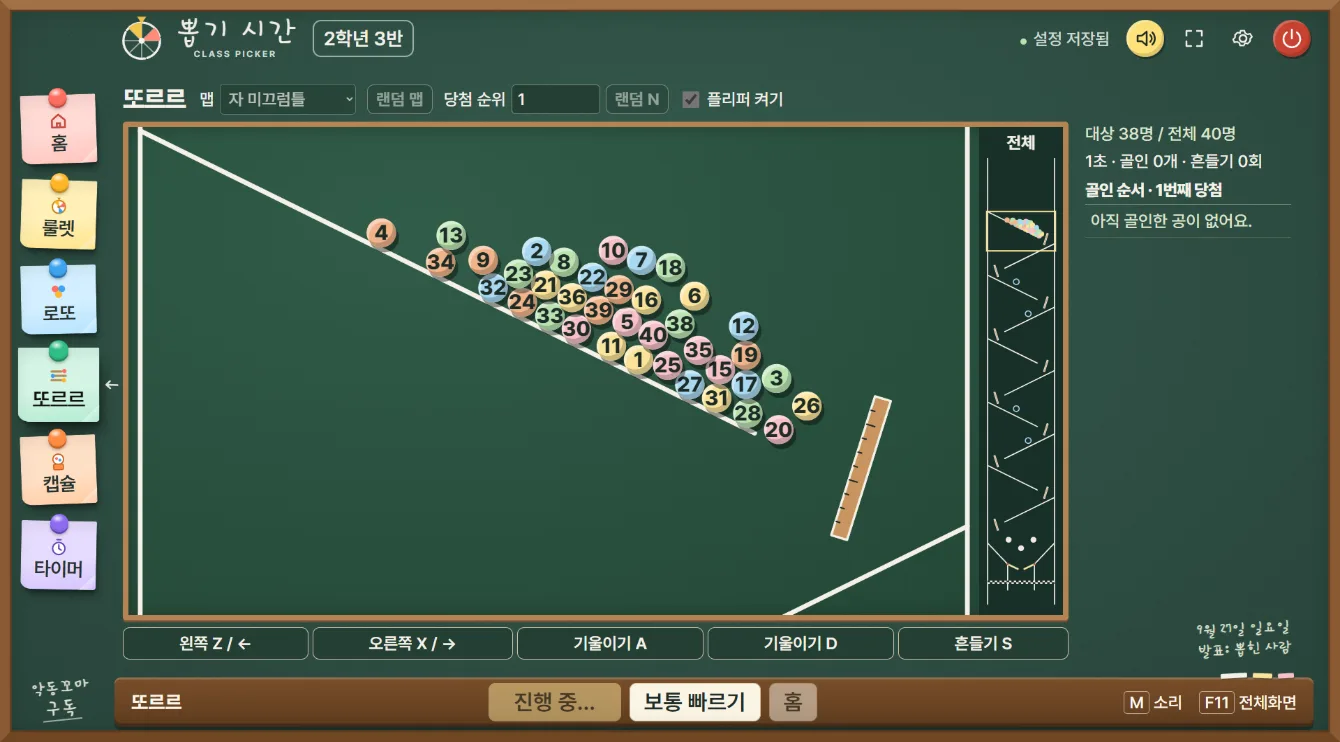
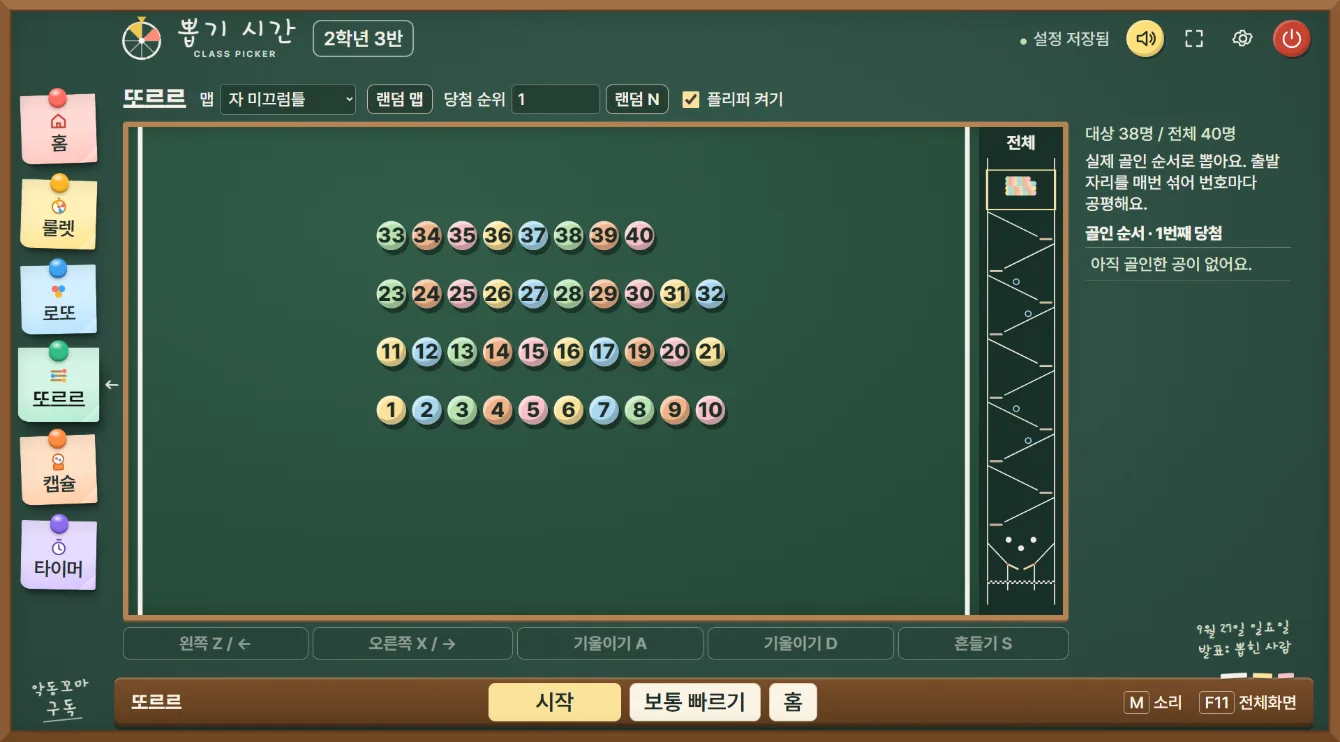
뽑기 시간: 첫 화면 또르르 사진을 설명대로 출발 직전 장면으로, 설명 글 포스트잇 메뉴

diff --git a/ppobgi.html b/ppobgi.html
@@ -74,7 +74,7 @@
           <figure class="hero__shot">
             <div class="screen">
               <img src="assets/ppobgi/hero-ddororeu-700.webp" srcset="assets/ppobgi/hero-ddororeu-700.webp 700w, assets/ppobgi/hero-ddororeu-1340.webp 1340w" sizes="(min-width:1024px) 620px, 100vw" width="1340" height="742" fetchpriority="high"
-                   alt="뽑기 시간 앱의 또르르 화면: 왼쪽에 홈·룰렛·로또·또르르·캡슐·타이머 자석 메뉴, 가운데 칠판 경주판에서 출발을 기다리는 번호 공들, 아래에 막대기·기울이기·흔들기 버튼과 나무 받침 줄">
+                   alt="뽑기 시간 앱의 또르르 화면: 왼쪽에 홈·룰렛·로또·또르르·캡슐·타이머 포스트잇 메뉴, 가운데 칠판 경주판에서 출발을 기다리는 번호 공들, 아래에 막대기·기울이기·흔들기 버튼과 나무 받침 줄">
             </div>
             <div class="keystrip" role="group" aria-label="교실에서 쓰는 단축키">
               <span><kbd>Space</kbd> 시작</span>
